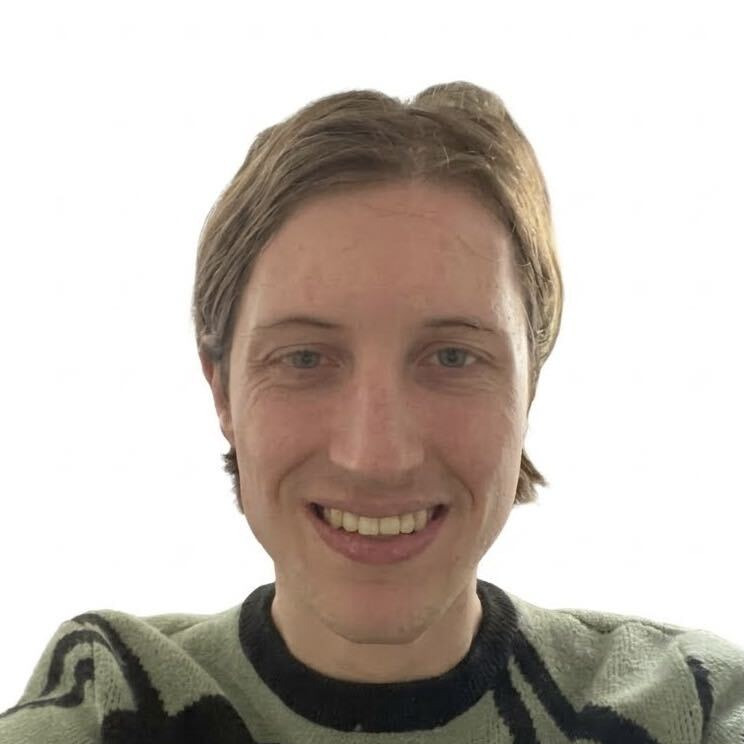
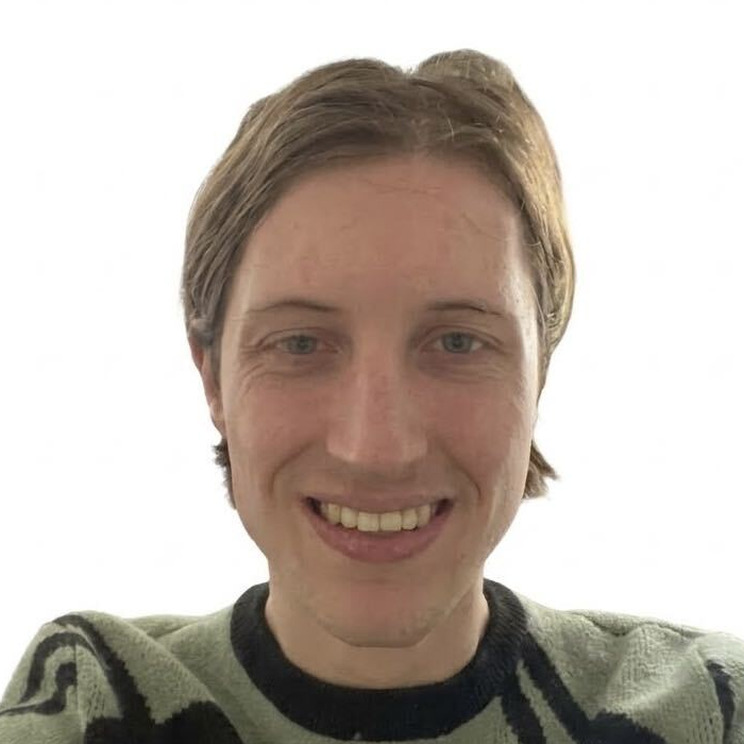
Add Pieter welcome and scholarship news; tighten headshot crop

diff --git a/_news/announcement_pieter_geukema_2026.md b/_news/announcement_pieter_geukema_2026.md
@@ -1,0 +1,7 @@
+---
+layout: post
+date: 2026-11-09 09:00:00-0400
+inline: true
+---
+
+We are excited to welcome [Pieter Geukema](https://vazquezgarcialab.mgh.harvard.edu/projects/pieter_geukema/) to the lab as a Master's student from the [University of Amsterdam](https://www.uva.nl/en). Congratulations to Pieter on being awarded a [Nijbakker-Morra Stichting](https://nijbakker-morra.nl/en/) scholarship supporting his Master's internship!
